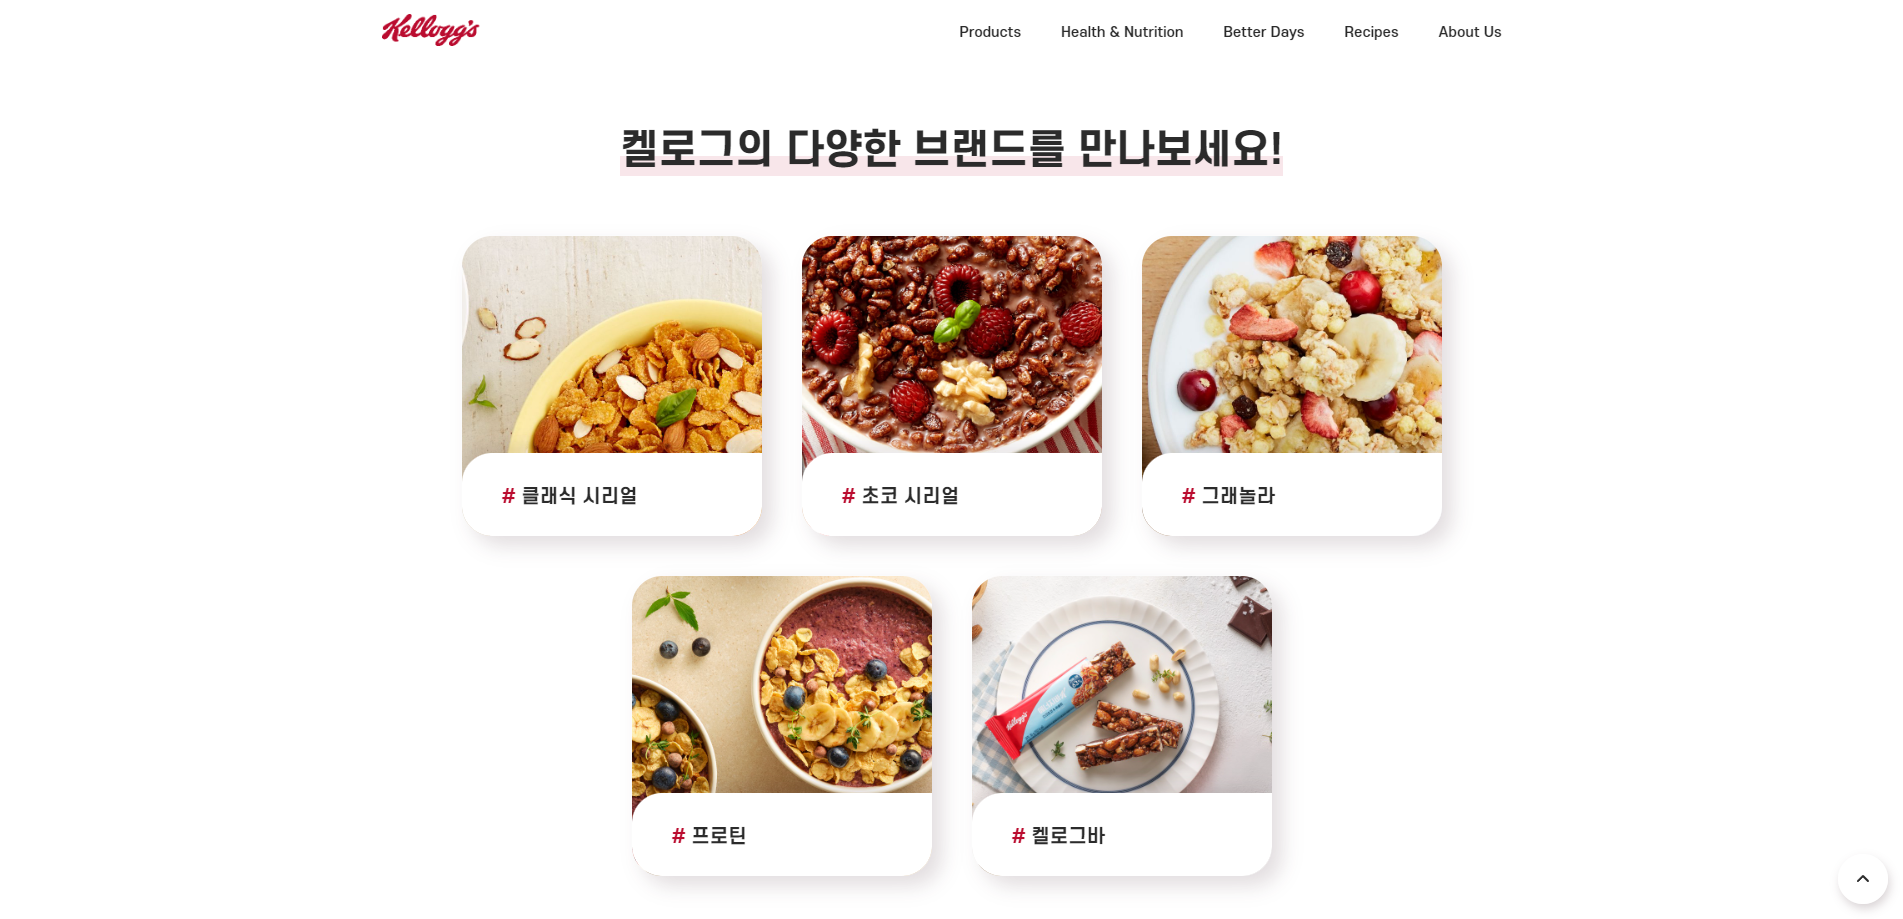
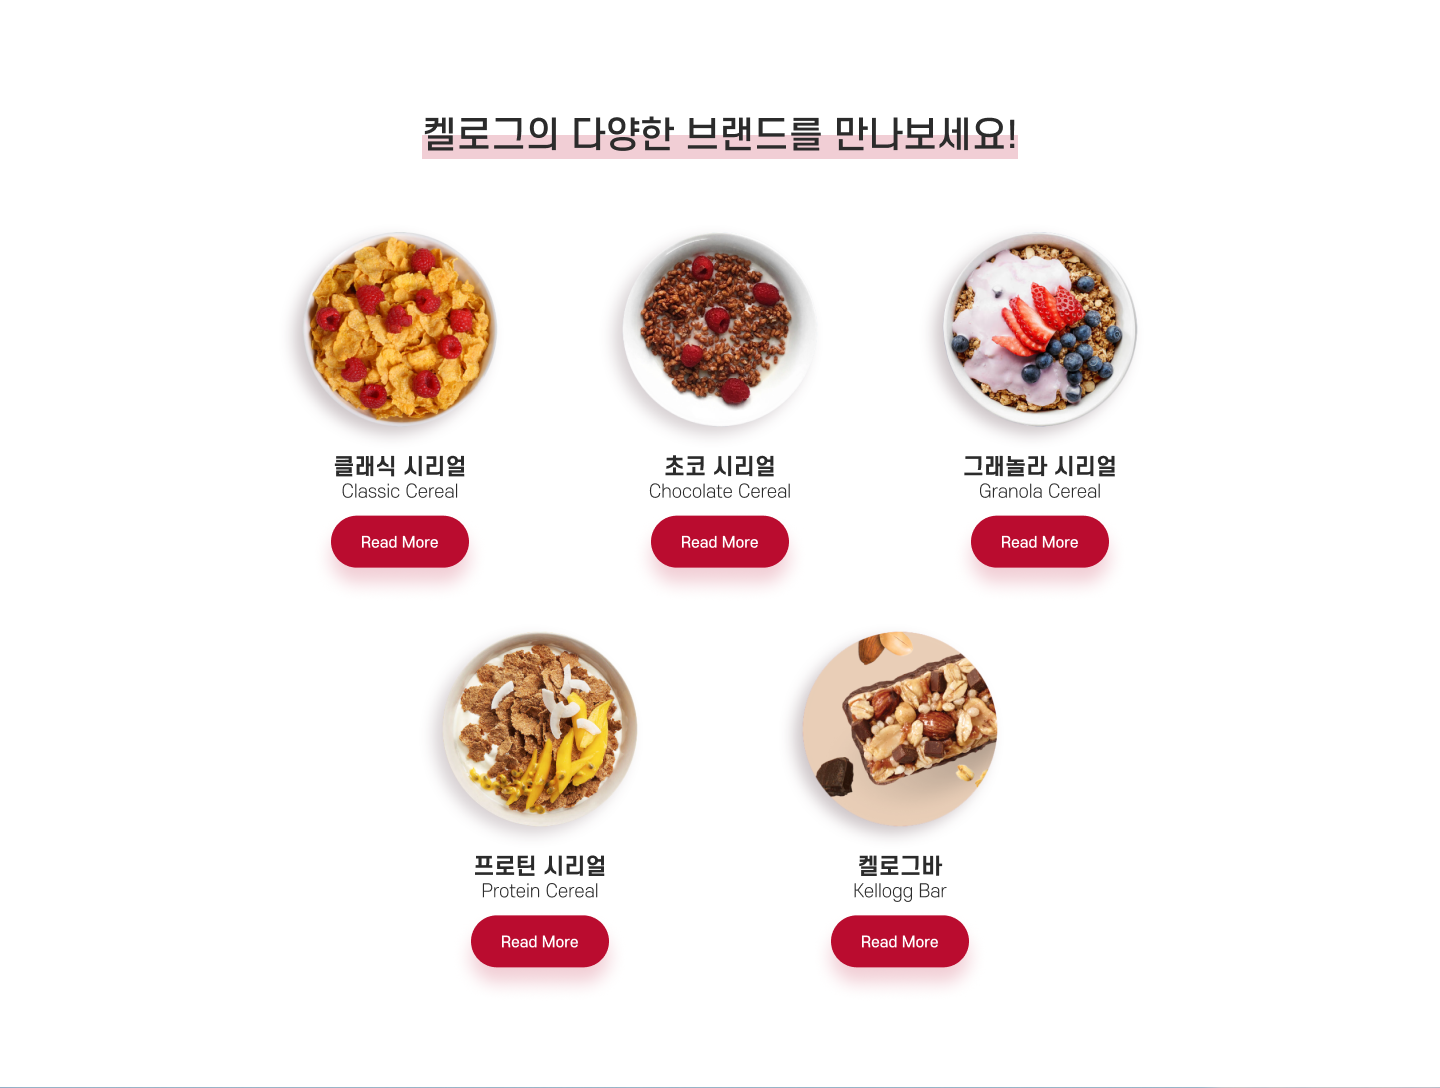
Docs: 프로젝트 이미지 수정

diff --git a/index.html b/index.html
@@ -634,13 +634,14 @@
 								</div>
 								<div class="content-right">
 									<h2>켈로그 사이트 리뉴얼</h2>
-									<p>기존의 켈로그 사이트를 리뉴얼하고 INTERSECTION OBSERVER API를 사용해 스크롤 애니메이션을 적용한 반응형 웹사이트입니다.</p>
+									<p>기존의 켈로그 사이트를 Figma로 리디자인하고 INTERSECTION OBSERVER API를 사용해 스크롤 애니메이션을 적용한 반응형 웹사이트입니다.</p>
 									<h3 class="list-title">skills</h3>
 									<ul class="skill-list">
 										<li class="skill-desc html">HTML</li>
 										<li class="skill-desc css">CSS</li>
 										<li class="skill-desc js">Javascript</li>
 										<li class="skill-desc jquery">Jquery</li>
+										<li class="skill-desc figma">Figma</li>
 									</ul>
 									<h3 class="list-title">library</h3>
 									<ul class="library-list">
@@ -655,6 +656,8 @@
 										<img src="img/kellogg_pc_2.png" alt="kellogg 프리뷰 2">
 										<img src="img/kellogg_pc_3.png" alt="kellogg 프리뷰 3">
 										<img src="img/kellogg_pc_4.png" alt="kellogg 프리뷰 4">
+										<img src="img/kellogg_pc_5.png" alt="kellogg 프리뷰 5">
+
 									</div>
 									<button class="close">close</button>
 								</div>

diff --git a/css/style.css b/css/style.css
@@ -166,6 +166,10 @@ img {
     background-color: rgb(0, 0, 0, 0.1);
 }
 
+.skill-desc.figma {
+    background-color: rgb(242, 78, 30, 0.1);
+}
+
 /* header */
 
 .header-wrap {
